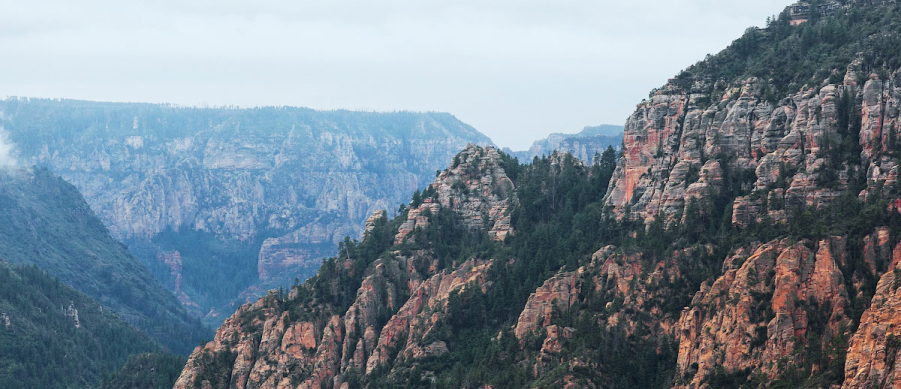
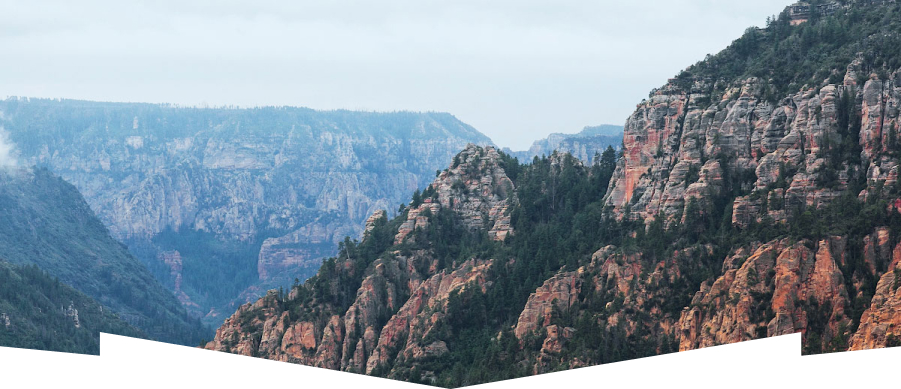
Внес адаптивную графику

Changed region(s): [[0.0, 0.8329, 1.0, 1.0]]

diff --git a/source/catalog.html b/source/catalog.html
@@ -32,13 +32,17 @@
         <button class="page-header__toggle page-header__toggle--nojs" type="button"><span class="visually-hidden">Открыть меню</span></button>
 
         <a class="page-header__logo" href="index.html">
-          <img src="img/logotype-mobile.svg" width="102" height="84" alt="Логотип «Седона»">
+          <picture>
+            <source media="(min-width: 1200px)" srcset="img/logotype-desktop.svg">
+            <source media="(min-width: 768px)" srcset="img/logotype-tablet.svg">
+            <img class="page-header__image" src="img/logotype-mobile.svg" width="102" height="84" alt="Логотип «Седона»">
+          </picture>
         </a>
       </header>
 
       <main class="page-main">
-        <section class="heading heading--catalog heading--short">
-          <div class="heading__img-wrap">
+        <section class="heading heading--catalog">
+          <div class="heading__img-wrap heading__img-wrap--short">
             <img class="heading__logo heading__logo--short" src="img/text-index-small.svg" width="229" height="39" alt="Заголовок «Седона»">
           </div>
 
@@ -56,7 +60,11 @@
             <li class="gallery__item gallery__item--first">
               <div class="gallery__picture picture-item">
                 <a class="picture-item__link" href="#">
-                  <img class="picture-item__image" src="img/photo-1-desktop@1x.jpg" width="1200" height="400" alt="Изображение на фото: Дорога в лучах заката, уходящая за горизонт."><!--Размеры 150/150 временно-->
+                  <picture>
+                    <source media="(min-width: 1200px)" srcset="img/photo-1-desktop@1x.jpg 1x, img/photo-1-desktop@2x.jpg 2x">
+                    <source media="(min-width: 768px)" srcset="img/photo-1-tablet@1x.jpg 1x, img/photo-1-tablet@2x.jpg 2x">
+                    <img class="picture-item__image picture-item__image--first" src="img/photo-1-mobile@1x.jpg" srcset="img/photo-1-mobile@2x.jpg 2x" alt="Изображение на фото: Дорога в лучах заката, уходящая за горизонт.">
+                  </picture>
                 </a>
 
                 <div class="picture-item__text-wrap">
@@ -71,7 +79,11 @@
             <li class="gallery__item">
               <div class="gallery__picture picture-item">
                 <a class="picture-item__link" href="#">
-                  <img class="picture-item__image" src="img/photo-2-desktop@1x.jpg" width="400" height="267" alt="Изображение на фото: Кактусоподобное растение крупным планом."><!--Размеры 150/150 временно-->
+                  <picture>
+                    <source media="(min-width: 1200px)" srcset="img/photo-2-desktop@1x.jpg 1x, img/photo-2-desktop@2x.jpg 2x">
+                    <source media="(min-width: 768px)" srcset="img/photo-2-tablet@1x.jpg 1x, img/photo-2-tablet@2x.jpg 2x">
+                    <img class="picture-item__image" src="img/photo-2-mobile@1x.jpg" srcset="img/photo-2-mobile@2x.jpg 2x" alt="Изображение на фото: Кактусоподобное растение крупным планом.">
+                  </picture>
                 </a>
 
                 <div class="picture-item__text-wrap">
@@ -86,7 +98,11 @@
             <li class="gallery__item">
               <div class="gallery__picture picture-item picture-item--gray-back">
                 <a class="picture-item__link" href="#">
-                  <img class="picture-item__image" src="img/photo-3-desktop@1x.jpg" width="400" height="267" alt="Изображение на фото: Дорога в виде серпантина в горной местности.">
+                  <picture>
+                    <source media="(min-width: 1200px)" srcset="img/photo-3-desktop@1x.jpg 1x, img/photo-3-desktop@2x.jpg 2x">
+                    <source media="(min-width: 768px)" srcset="img/photo-3-tablet@1x.jpg 1x, img/photo-3-tablet@2x.jpg 2x">
+                    <img class="picture-item__image" src="img/photo-3-mobile@1x.jpg" srcset="img/photo-3-mobile@2x.jpg 2x" alt="Изображение на фото: Дорога в виде серпантина в горной местности.">
+                  </picture>
                 </a>
 
                 <div class="picture-item__text-wrap">
@@ -101,7 +117,11 @@
             <li class="gallery__item">
               <div class="gallery__picture picture-item">
                 <a class="picture-item__link" href="#">
-                  <img class="picture-item__image" src="img/photo-4-desktop@1x.jpg" width="400" height="267" alt="Изображение на фото: Горный пейзаж и непосредственно достопримечательность под названием «Мост Дьявола».">
+                  <picture>
+                    <source media="(min-width: 1200px)" srcset="img/photo-4-desktop@1x.jpg 1x, img/photo-4-desktop@2x.jpg 2x">
+                    <source media="(min-width: 768px)" srcset="img/photo-4-tablet@1x.jpg 1x, img/photo-4-tablet@2x.jpg 2x">
+                    <img class="picture-item__image" src="img/photo-4-mobile@1x.jpg" srcset="img/photo-4-mobile@2x.jpg 2x" alt="Изображение на фото: Горный пейзаж и непосредственно достопримечательность под названием «Мост Дьявола».">
+                  </picture>
                 </a>
 
                 <div class="picture-item__text-wrap">

diff --git a/source/index.html b/source/index.html
@@ -31,7 +31,11 @@
         <button class="page-header__toggle page-header__toggle--nojs" type="button"><span class="visually-hidden">Открыть меню</span></button>
 
         <a class="page-header__logo">
-          <img class="page-header__image" src="img/logotype-mobile.svg" width="102" height="84" alt="Логотип «Седона»">
+          <picture>
+            <source media="(min-width: 1200px)" srcset="img/logotype-desktop.svg">
+            <source media="(min-width: 768px)" srcset="img/logotype-tablet.svg">
+            <img class="page-header__image" src="img/logotype-mobile.svg" width="102" height="84" alt="Логотип «Седона»">
+          </picture>
         </a>
       </header>
 
@@ -61,7 +65,11 @@
             </div>
 
             <div class="advantages__img-wrap advantages__img-wrap--first">
-              <img class="advantages__image advantages__image--after" src="img/photo-city@1x.jpg" width="800" height="256" alt="На фото запечатлена городская сцена на фоне гор.">
+              <picture>
+                <source media="(min-width: 1200px)" srcset="img/photo-city-desktop@1x.jpg 1x, img/photo-city-desktop@2x.jpg 2x">
+                <source media="(min-width: 768px)" srcset="img/photo-city-tablet@1x.jpg 1x, img/photo-city-tablet@2x.jpg 2x,">
+                <img class="advantages__image advantages__image--after" src="img/photo-city-mobile@1x.jpg" srcset="img/photo-city-mobile@2x.jpg 2x" alt="На фото запечатлена городская сцена на фоне гор.">
+              </picture>
             </div>
 
             <div class="advantages__white-wrap">
@@ -93,7 +101,11 @@
             </div>
 
             <div class="advantages__img-wrap advantages__img-wrap--second">
-              <img class="advantages__image advantages__image--before" src="img/photo-bridge@1x.jpg" width="800" height="256" alt="На фото запечатлен горный пейзаж и непосредственно достопримечательность под названием «Мост Дьявола».">
+              <picture>
+                <source media="(min-width: 1200px)" srcset="img/photo-bridge-desktop@1x.jpg 1x, img/photo-bridge-desktop@2x.jpg 2x">
+                <source media="(min-width: 768px)" srcset="img/photo-bridge-tablet@1x.jpg 1x, img/photo-bridge-tablet@2x.jpg 2x">
+                <img class="advantages__image advantages__image--before" src="img/photo-bridge-mobile@1x.jpg" srcset="img/photo-bridge-mobile@2x.jpg 2x" alt="На фото запечатлен горный пейзаж и непосредственно достопримечательность под названием «Мост Дьявола».">
+              </picture>
             </div>
 
             <div class="advantages__item advantages__item--gray">
@@ -136,7 +148,10 @@
           <div class="search__img-wrap">
             <iframe class="search__iframe-map"></iframe> <!--Потом вставлю код-->
 
-            <img class="search__image-map" src="img/map-desktop@1x.jpg" width="1200" height="350" alt="Седона. Аризона">
+            <picture>
+              <source media="(min-width: 1200px)" srcset="img/map-desktop@1x.jpg">
+              <img class="search__image-map" src="img/map-tablet@1x.jpg" alt="Местоположение на карте: Седона. Аризона">
+            </picture>
           </div>
         </section>
       </main>

diff --git a/source/sass/blocks/_heading.scss b/source/sass/blocks/_heading.scss
@@ -9,18 +9,6 @@
     }
   }
 
-  &--short {
-    .heading__img-wrap {
-      @media (max-width: $mobile-max) {
-        height: 158px;
-      }
-
-      @media (min-width: $tablet) {
-        height: 290px;
-      }
-    }
-  }
-
   &--form {
     padding-bottom: 16px;
 
@@ -46,11 +34,48 @@
 
   text-align: center;
 
-  background: url("../img/back-desktop@1x.jpg") no-repeat 50% 100%;
-  background-size: cover;
+  background: url("../img/back-mobile@1x.jpg") no-repeat 50% 100%;
+
+  object-fit: cover;
+
+  @media (min-resolution: 2dppx) {
+    background-image: url("../img/back-mobile@2x.jpg");
+    background-size: 901px auto;
+  }
 
   @media (min-width: $tablet) {
     height: 518px;
+
+    background-image: url("../img/back-desktop@1x.jpg");
+
+    @media (min-resolution: 2dppx) {
+      background-image: url("../img/back-desktop@2x.jpg");
+      background-size: 1200px auto;
+    }
+  }
+
+  &--short {
+    @media (max-width: $mobile-max) {
+      height: 158px;
+
+      background-image: url("../img/back-mobile-short@1x.jpg");
+
+      @media (min-resolution: 2dppx) {
+        background-image: url("../img/back-mobile-short@2x.jpg");
+        background-size: 902px auto;
+      }
+    }
+
+    @media (min-width: $tablet) {
+      height: 290px;
+
+      background-image: url("../img/back-desktop-short@1x.jpg");
+
+      @media (min-resolution: 2dppx) {
+        background-image: url("../img/back-desktop-short@2x.jpg");
+        background-size: 1200px auto;
+      }
+    }
   }
 }
 

diff --git a/source/form.html b/source/form.html
@@ -32,13 +32,17 @@
         <button class="page-header__toggle page-header__toggle--nojs" type="button"><span class="visually-hidden">Открыть меню</span></button>
 
         <a class="page-header__logo" href="index.html">
-          <img src="img/logotype-mobile.svg" width="102" height="84" alt="Логотип «Седона»">
+          <picture>
+            <source media="(min-width: 1200px)" srcset="img/logotype-desktop.svg">
+            <source media="(min-width: 768px)" srcset="img/logotype-tablet.svg">
+            <img class="page-header__image" src="img/logotype-mobile.svg" width="102" height="84" alt="Логотип «Седона»">
+          </picture>
         </a>
       </header>
 
       <main class="page-main">
-        <section class="heading heading--form heading--short">
-          <div class="heading__img-wrap">
+        <section class="heading heading--form">
+          <div class="heading__img-wrap heading__img-wrap--short">
             <img class="heading__logo heading__logo--short" src="img/text-index-small.svg" width="229" height="39" alt="Заголовок «Седона»">
           </div>
 

diff --git a/source/sass/blocks/_controls.scss b/source/sass/blocks/_controls.scss
@@ -79,8 +79,24 @@
   border: none;
 
   svg {
+    &:hover {
+      fill: $black-lighten;
+    }
+
+    &:active {
+      fill: $black-lighten-30;
+    }
+
     @media (min-width: $tablet) {
       fill: $white;
+
+      &:hover {
+        fill: $white-60;
+      }
+
+      &:active {
+        fill: $white-30;
+      }
     }
   }
 

diff --git a/source/sass/blocks/_page-header.scss b/source/sass/blocks/_page-header.scss
@@ -56,4 +56,15 @@
   z-index: 1;
 
   transform: translate(-50%, 0);
+
+  @media (min-width: $desktop) {
+    bottom: -44px;
+  }
+}
+
+.page-header__image {
+  @media (min-width: $desktop) {
+    width: 187px;
+    height: 96px;
+  }
 }

diff --git a/source/sass/blocks/_picture-item.scss b/source/sass/blocks/_picture-item.scss
@@ -41,6 +41,14 @@
   @media (max-width: $mobile-max) {
     height: 280px;
   }
+
+  @media (min-width: $tablet) {
+    height: 267px;
+
+    &--first {
+      height: 400px;
+    }
+  }
 }
 
 .picture-item__like-count,

diff --git a/source/sass/blocks/_search.scss b/source/sass/blocks/_search.scss
@@ -59,7 +59,7 @@
 
 .search__image-map {
   width: 100%;
-  min-height: 350px;
+  height: 350px;
 
   object-fit: cover;
 }

diff --git a/source/sass/blocks/_advantages.scss b/source/sass/blocks/_advantages.scss
@@ -19,7 +19,7 @@
   }
 
   @media (min-width: $tablet) {
-    min-height: 100%;
+    height: 256px;
   }
 }
 
